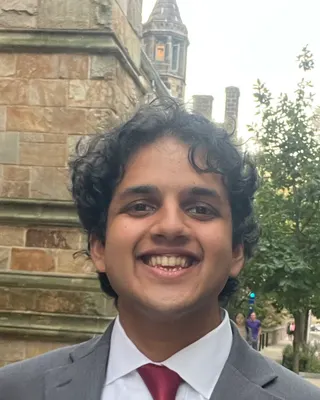
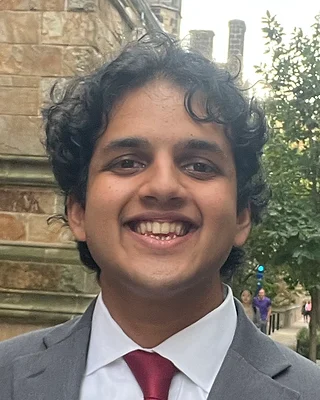
Tighter, sharper headshot crop; rename Voice to Speech and Debate; drop photo captions

diff --git a/src/render.ts b/src/render.ts
@@ -533,7 +533,7 @@ function quickView(r: Resume, groups: { lead: Entry[]; debate: Entry[] }): strin
         ${block('papers', 'Papers', paperList)}
         ${block('service', 'Service', items(r.service))}
         ${block('leadership', 'Leadership', items(groups.lead))}
-        ${block('voice', 'Speech & Debate', items(groups.debate))}
+        ${block('voice', 'Speech and Debate', items(groups.debate))}
         ${block('music', 'Music & Work', items(r.music_and_work))}
         ${block('honors', 'Honors & Awards', byCat)}
         ${block('languages', 'Languages', `<p>${r.person.languages.map(esc).join(', ')}</p>`)}
@@ -574,9 +574,8 @@ export function renderBody(r: Resume): string {
     leadership: section('leadership', 'Leadership', entries(lead), 'Student government & clubs'),
     voice: section(
       'voice',
-      'Voice',
-      withPhoto(`${entries(debate)}<h3 class="sub">Speech & Debate record</h3><ul class="honors">${debateHonors.map(honorItem).join('')}</ul>`, r.media?.voice),
-      'Speech & debate',
+      'Speech and Debate',
+      withPhoto(`${entries(debate)}<h3 class="sub">Record</h3><ul class="honors">${debateHonors.map(honorItem).join('')}</ul>`, r.media?.voice),
     ),
     music: section(
       'music',
@@ -592,7 +591,7 @@ export function renderBody(r: Resume): string {
       ['Research', r.research],
       ['Service', r.service],
       ['Leadership', lead],
-      ['Voice', debate],
+      ['Debate', debate],
       ['Music', music],
     ]),
     honors: honors(r),

diff --git a/src/styles/base.css b/src/styles/base.css
@@ -145,7 +145,7 @@ html.js.motion-ok .reveal.is-in { opacity: 1; transform: none; }
 @media (max-width: 760px) {
   .hero__grid { grid-template-columns: 1fr; gap: var(--space-4); }
   .hero__photo { order: -1; width: 128px; }
-  .hero__photo img { border-radius: 50%; aspect-ratio: 1; object-fit: cover; object-position: 50% 20%; box-shadow: 0 0 0 4px var(--jhu-spirit); }
+  .hero__photo img { border-radius: 50%; aspect-ratio: 1; object-fit: cover; object-position: 50% 30%; box-shadow: 0 0 0 4px var(--jhu-spirit); }
 }
 
 .with-photo { display: grid; grid-template-columns: minmax(0, 1fr) 300px; gap: var(--space-5); align-items: start; }

diff --git a/src/sections.ts b/src/sections.ts
@@ -7,7 +7,7 @@ export const SECTION_LABELS: Record<string, string> = {
   service: 'Service',
   reach: 'Reach',
   leadership: 'Leadership',
-  voice: 'Voice',
+  voice: 'Debate',
   music: 'Music',
   timeline: 'Timeline',
   honors: 'Honors',
